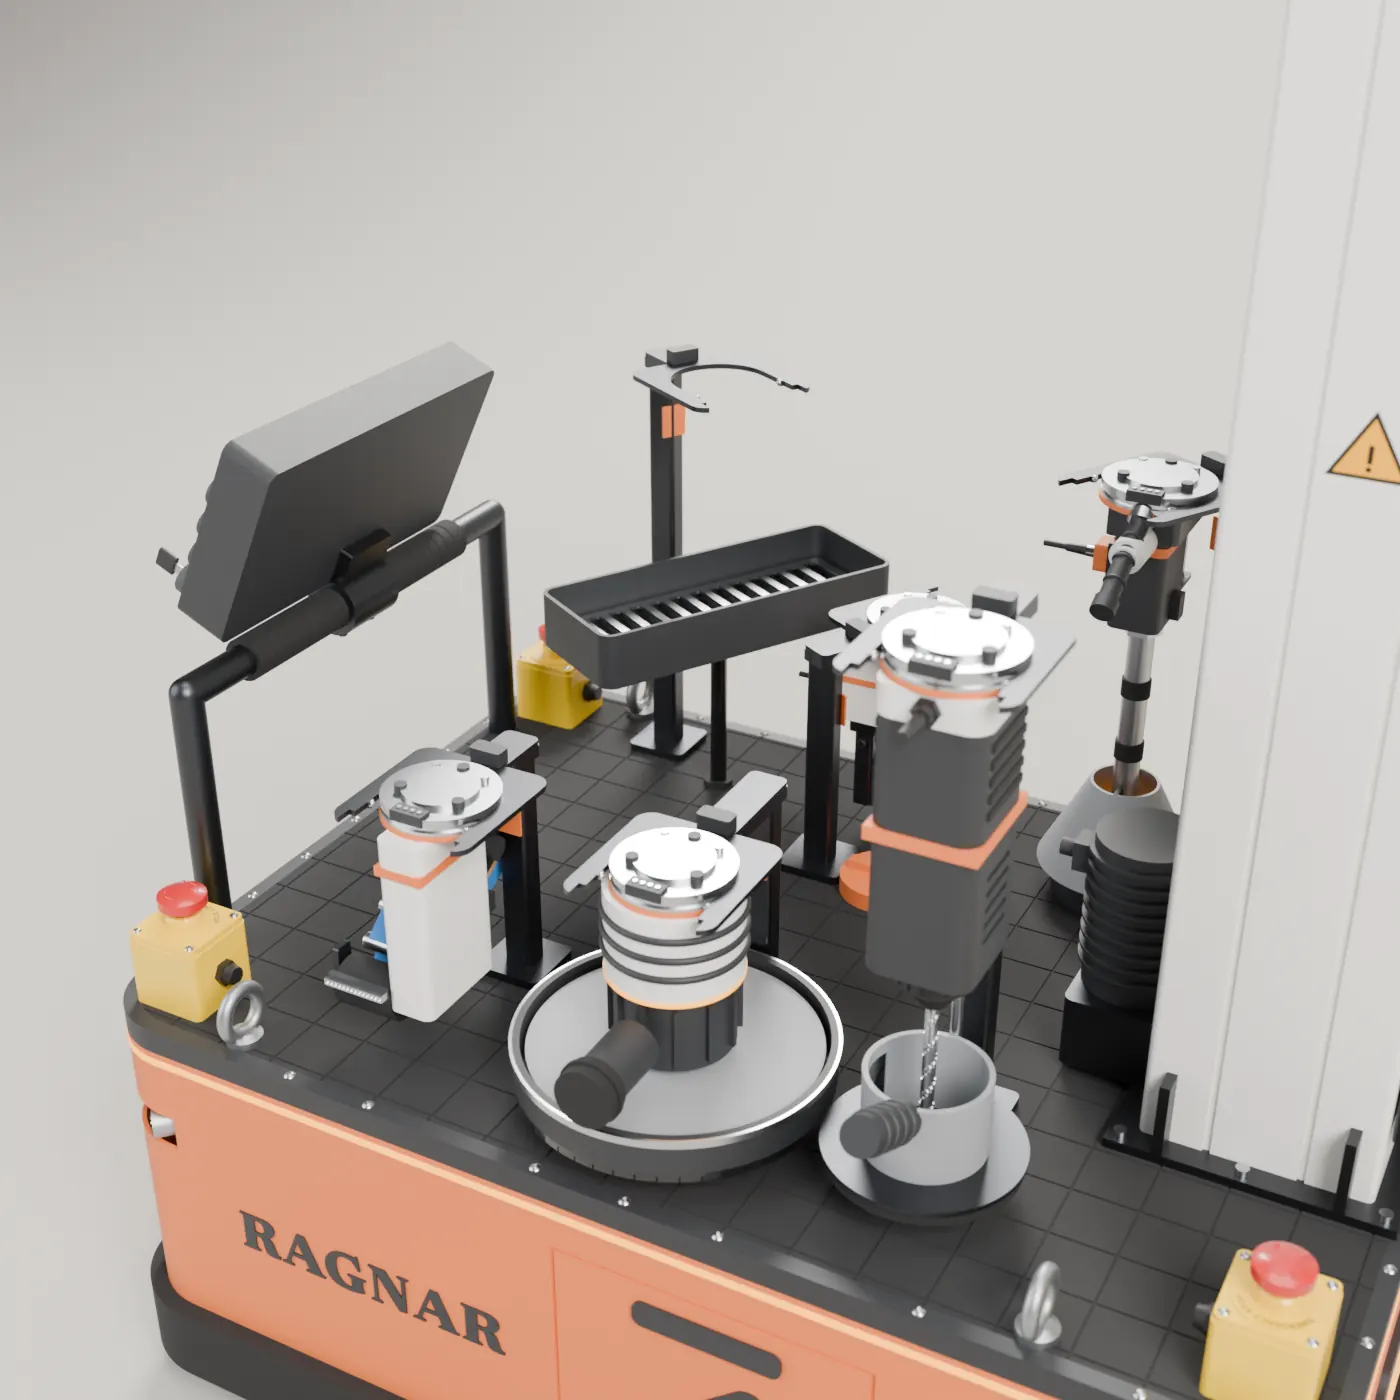
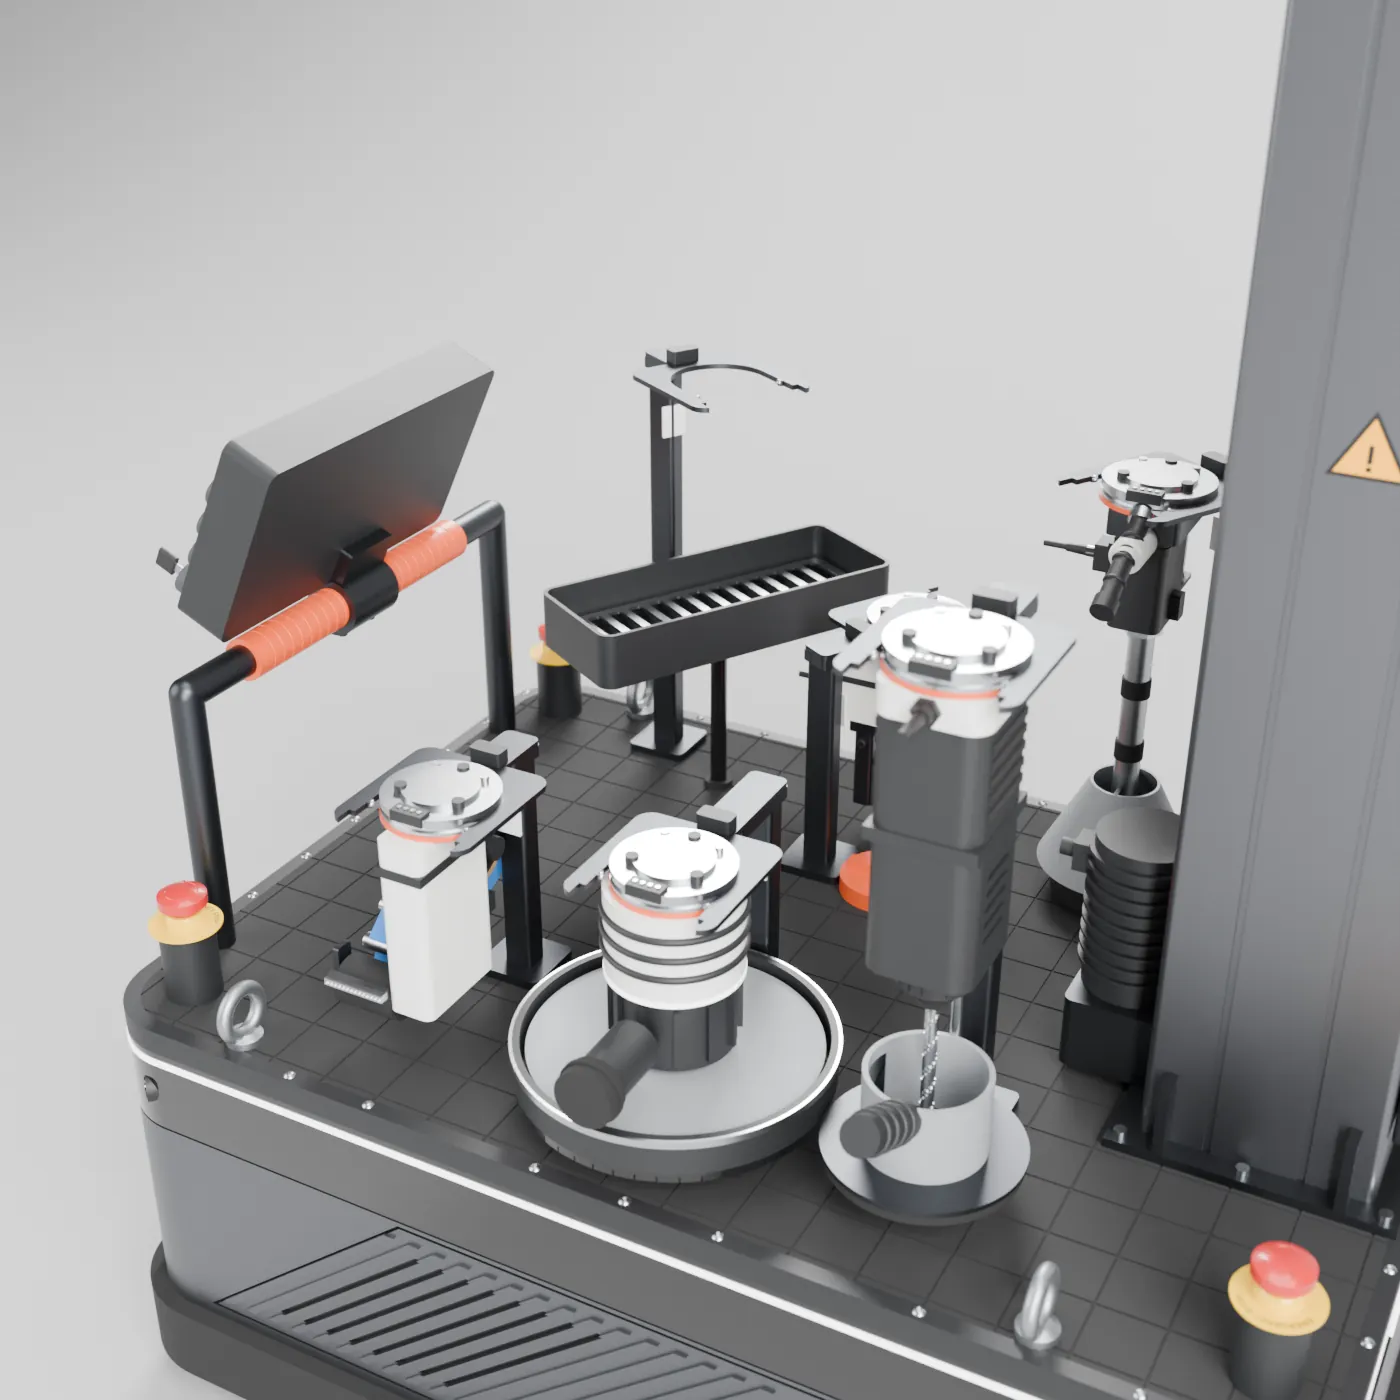
Redesigned R1: metallic grey with signal orange, real color renders, new line drawing and work camera detail

diff --git a/r1.html b/r1.html
@@ -21,7 +21,7 @@
 <meta property="og:image" content="https://ragnarrobotics.com/assets/img/og_ragnar.jpg">
 <meta property="og:image:width" content="1200">
 <meta property="og:image:height" content="630">
-<meta property="og:image:alt" content="Line sketch of the R1 robot beside the words Robot technicians for buildings.">
+<meta property="og:image:alt" content="Line drawing of the R1 robot beside the words Robot technicians for buildings.">
 <meta name="twitter:card" content="summary_large_image">
 <meta http-equiv="Content-Security-Policy" content="default-src 'self'; img-src 'self'; style-src 'self'; font-src 'self'; script-src 'self'; object-src 'none'; base-uri 'self'; form-action 'none'">
 <link rel="preload" href="assets/fonts/newsreader_display.woff2" as="font" type="font/woff2" crossorigin>
@@ -112,12 +112,12 @@
     <div class="wrap plates">
       <div class="pcol">
         <div class="plates-h"><h2 id="details-h">The details</h2><p>The parts that do the work, up close.</p></div>
-        <figure><img class="bw" src="assets/img/r1_paint_1400.webp" srcset="assets/img/r1_paint_800.webp 800w, assets/img/r1_paint_1400.webp 1400w" sizes="(min-width: 900px) min(720px, 50vw), 100vw" width="1400" height="1400" alt="Close up CAD rendering of the R1 paint head on the arm." loading="lazy" decoding="async"><figcaption><b>Paint head.</b> A standard 9&nbsp;in roller fed through its core, an edger pad for the lines and a cover that closes while the paint dries.</figcaption></figure>
-        <figure><img class="bw" src="assets/img/r1_base_1400.webp" srcset="assets/img/r1_base_800.webp 800w, assets/img/r1_base_1400.webp 1400w" sizes="(min-width: 900px) min(720px, 50vw), 100vw" width="1400" height="980" alt="Close up CAD rendering of the R1 base corner with its bumper and depth camera." loading="lazy" decoding="async"><figcaption><b>Base.</b> Paint tank, pump, dust extractor and two battery packs sit low, which keeps R1 stable without feet.</figcaption></figure>
+        <figure><img src="assets/img/r1_paint_1400.webp" srcset="assets/img/r1_paint_800.webp 800w, assets/img/r1_paint_1400.webp 1400w" sizes="(min-width: 900px) min(720px, 50vw), 100vw" width="1400" height="1400" alt="Close up CAD rendering of the R1 paint head on the arm." loading="lazy" decoding="async"><figcaption><b>Paint head.</b> A standard 9&nbsp;in roller fed through its core, an edger pad for the lines and a cover that closes while the paint dries.</figcaption></figure>
+        <figure><img src="assets/img/r1_base_1400.webp" srcset="assets/img/r1_base_800.webp 800w, assets/img/r1_base_1400.webp 1400w" sizes="(min-width: 900px) min(720px, 50vw), 100vw" width="1400" height="980" alt="Close up CAD rendering of the R1 base: the ribbed service door, the light line and a depth camera behind the black glass band." loading="lazy" decoding="async"><figcaption><b>Base.</b> Paint tank, pump, dust extractor and two battery packs sit low, which keeps R1 stable without feet.</figcaption></figure>
       </div>
       <div class="pcol">
-        <figure><img class="bw" src="assets/img/r1_deck_1400.webp" srcset="assets/img/r1_deck_800.webp 800w, assets/img/r1_deck_1400.webp 1400w" sizes="(min-width: 900px) min(720px, 50vw), 100vw" width="1400" height="1400" alt="Close up CAD rendering of the R1 deck with the docked tools." loading="lazy" decoding="async"><figcaption><b>Tool station.</b> Each tool waits in its own dock. The drill clamps to the wall with a vacuum ring, so the arm only has to hold it steady.</figcaption></figure>
-        <figure><img class="bw" src="assets/img/r1_mast_1000.webp" srcset="assets/img/r1_mast_600.webp 600w, assets/img/r1_mast_1000.webp 1000w" sizes="(min-width: 900px) min(720px, 50vw), 100vw" width="1000" height="1000" alt="Close up CAD rendering of the lidar on top of the R1 mast." loading="lazy" decoding="async"><figcaption><b>Mast head.</b> The lidar sits on top of the inner stage, with a guard around it.</figcaption></figure>
+        <figure><img src="assets/img/r1_deck_1400.webp" srcset="assets/img/r1_deck_800.webp 800w, assets/img/r1_deck_1400.webp 1400w" sizes="(min-width: 900px) min(720px, 50vw), 100vw" width="1400" height="1400" alt="Close up CAD rendering of the R1 deck with the docked tools." loading="lazy" decoding="async"><figcaption><b>Tool station.</b> Each tool waits in its own dock. The drill clamps to the wall with a vacuum ring, so the arm only has to hold it steady.</figcaption></figure>
+        <figure><img src="assets/img/r1_eye_1400.webp" srcset="assets/img/r1_eye_800.webp 800w, assets/img/r1_eye_1400.webp 1400w" sizes="(min-width: 900px) min(720px, 50vw), 100vw" width="1400" height="1400" alt="Close up CAD rendering of the work camera on the R1 carriage, set in a hexagonal ring light." loading="lazy" decoding="async"><figcaption><b>Work camera.</b> It rides up and down the mast with the arm, in a ring light, so R1 always sees the wall it is working on and photographs every finished wall.</figcaption></figure>
       </div>
     </div>
   </section>

diff --git a/index.html b/index.html
@@ -21,7 +21,7 @@
 <meta property="og:image" content="https://ragnarrobotics.com/assets/img/og_ragnar.jpg">
 <meta property="og:image:width" content="1200">
 <meta property="og:image:height" content="630">
-<meta property="og:image:alt" content="Line sketch of the R1 robot beside the words Robot technicians for buildings.">
+<meta property="og:image:alt" content="Line drawing of the R1 robot beside the words Robot technicians for buildings.">
 <meta name="twitter:card" content="summary_large_image">
 <script type="application/ld+json">{"@context":"https://schema.org","@graph":[{"@type":"Organization","@id":"https://ragnarrobotics.com/#org","name":"Ragnar Robotics","legalName":"Urban Robotics Technologies, Inc.","url":"https://ragnarrobotics.com/","logo":"https://ragnarrobotics.com/icon-512.png","email":"info@urbanrobotics.com","foundingDate":"2025","address":{"@type":"PostalAddress","addressLocality":"Miami","addressRegion":"FL","addressCountry":"US"},"founder":{"@id":"https://ragnarrobotics.com/company.html#founder"},"description":"Ragnar Robotics builds robot technicians, starting with R1, an interior finishing robot that paints, drills and sands, in development in Miami."},{"@type":"WebSite","@id":"https://ragnarrobotics.com/#site","name":"Ragnar Robotics","url":"https://ragnarrobotics.com/","publisher":{"@id":"https://ragnarrobotics.com/#org"}},{"@type":"Person","@id":"https://ragnarrobotics.com/company.html#founder","name":"Onat Cakici","jobTitle":"Founder","worksFor":{"@id":"https://ragnarrobotics.com/#org"},"alumniOf":{"@type":"CollegeOrUniversity","name":"Florida Institute of Technology"},"sameAs":["https://www.linkedin.com/in/cakici/"]},{"@type":"VideoObject","name":"R1 at work","description":"An 80 second animation from the CAD model of R1 rolling a wall lane by lane, cutting the ceiling line, changing tools, drilling the wall and the ceiling and sanding a patch.","thumbnailUrl":"https://ragnarrobotics.com/assets/video/p3_film_poster.webp","contentUrl":"https://ragnarrobotics.com/assets/video/p3_film_1080.mp4","uploadDate":"2026-11-08T14:00:00+00:00","duration":"PT80S","publisher":{"@id":"https://ragnarrobotics.com/#org"}}]}</script>
 <meta http-equiv="Content-Security-Policy" content="default-src 'self'; img-src 'self'; style-src 'self'; font-src 'self'; script-src 'self'; object-src 'none'; base-uri 'self'; form-action 'none'">
@@ -79,7 +79,7 @@
           <p class="note">R1 is in development and has not been built yet. The images are CAD renderings, and the numbers come from our simulations.</p>
           <a class="tlink" href="r1.html">Dimensions and specifications</a>
         </div>
-        <div class="c34 vl plate-fig"><img src="assets/img/r1_sketch.webp" width="1150" height="1233" alt="Line sketch of the R1 robot: a base with docked tools, a tall mast and an arm holding a paint roller." loading="lazy" decoding="async"></div>
+        <div class="c34 vl plate-fig"><img src="assets/img/r1_sketch.webp" width="1150" height="1235" alt="Line drawing of the R1 robot: the base with its docked tools, the tall mast with the camera carriage and the arm holding a paint roller." loading="lazy" decoding="async"></div>
       </div>
       <dl class="nums">
       <div><dt>Wall reach, with the mast raised</dt><dd>16<span class="u"> ft</span></dd></div>

diff --git a/company.html b/company.html
@@ -21,7 +21,7 @@
 <meta property="og:image" content="https://ragnarrobotics.com/assets/img/og_ragnar.jpg">
 <meta property="og:image:width" content="1200">
 <meta property="og:image:height" content="630">
-<meta property="og:image:alt" content="Line sketch of the R1 robot beside the words Robot technicians for buildings.">
+<meta property="og:image:alt" content="Line drawing of the R1 robot beside the words Robot technicians for buildings.">
 <meta name="twitter:card" content="summary_large_image">
 <script type="application/ld+json">{"@context":"https://schema.org","@graph":[{"@type":"AboutPage","@id":"https://ragnarrobotics.com/company.html","url":"https://ragnarrobotics.com/company.html","name":"Ragnar Robotics, company and founder","about":{"@id":"https://ragnarrobotics.com/#org"},"isPartOf":{"@id":"https://ragnarrobotics.com/#site"}},{"@type":"Person","@id":"https://ragnarrobotics.com/company.html#founder","name":"Onat Cakici","jobTitle":"Founder","worksFor":{"@id":"https://ragnarrobotics.com/#org"},"alumniOf":{"@type":"CollegeOrUniversity","name":"Florida Institute of Technology"},"sameAs":["https://www.linkedin.com/in/cakici/"]},{"@type":"BreadcrumbList","itemListElement":[{"@type":"ListItem","position":1,"name":"Ragnar Robotics","item":"https://ragnarrobotics.com/"},{"@type":"ListItem","position":2,"name":"Company","item":"https://ragnarrobotics.com/company.html"}]}]}</script>
 <meta http-equiv="Content-Security-Policy" content="default-src 'self'; img-src 'self'; style-src 'self'; font-src 'self'; script-src 'self'; object-src 'none'; base-uri 'self'; form-action 'none'">

diff --git a/404.html b/404.html
@@ -20,7 +20,7 @@
 <meta property="og:image" content="https://ragnarrobotics.com/assets/img/og_ragnar.jpg">
 <meta property="og:image:width" content="1200">
 <meta property="og:image:height" content="630">
-<meta property="og:image:alt" content="Line sketch of the R1 robot beside the words Robot technicians for buildings.">
+<meta property="og:image:alt" content="Line drawing of the R1 robot beside the words Robot technicians for buildings.">
 <meta name="twitter:card" content="summary_large_image">
 <meta http-equiv="Content-Security-Policy" content="default-src 'self'; img-src 'self'; style-src 'self'; font-src 'self'; script-src 'self'; object-src 'none'; base-uri 'self'; form-action 'none'">
 <link rel="preload" href="/assets/fonts/newsreader_display.woff2" as="font" type="font/woff2" crossorigin>

diff --git a/privacy.html b/privacy.html
@@ -21,7 +21,7 @@
 <meta property="og:image" content="https://ragnarrobotics.com/assets/img/og_ragnar.jpg">
 <meta property="og:image:width" content="1200">
 <meta property="og:image:height" content="630">
-<meta property="og:image:alt" content="Line sketch of the R1 robot beside the words Robot technicians for buildings.">
+<meta property="og:image:alt" content="Line drawing of the R1 robot beside the words Robot technicians for buildings.">
 <meta name="twitter:card" content="summary_large_image">
 <meta http-equiv="Content-Security-Policy" content="default-src 'self'; img-src 'self'; style-src 'self'; font-src 'self'; script-src 'self'; object-src 'none'; base-uri 'self'; form-action 'none'">
 <link rel="preload" href="assets/fonts/newsreader_display.woff2" as="font" type="font/woff2" crossorigin>

diff --git a/terms.html b/terms.html
@@ -21,7 +21,7 @@
 <meta property="og:image" content="https://ragnarrobotics.com/assets/img/og_ragnar.jpg">
 <meta property="og:image:width" content="1200">
 <meta property="og:image:height" content="630">
-<meta property="og:image:alt" content="Line sketch of the R1 robot beside the words Robot technicians for buildings.">
+<meta property="og:image:alt" content="Line drawing of the R1 robot beside the words Robot technicians for buildings.">
 <meta name="twitter:card" content="summary_large_image">
 <meta http-equiv="Content-Security-Policy" content="default-src 'self'; img-src 'self'; style-src 'self'; font-src 'self'; script-src 'self'; object-src 'none'; base-uri 'self'; form-action 'none'">
 <link rel="preload" href="assets/fonts/newsreader_display.woff2" as="font" type="font/woff2" crossorigin>
